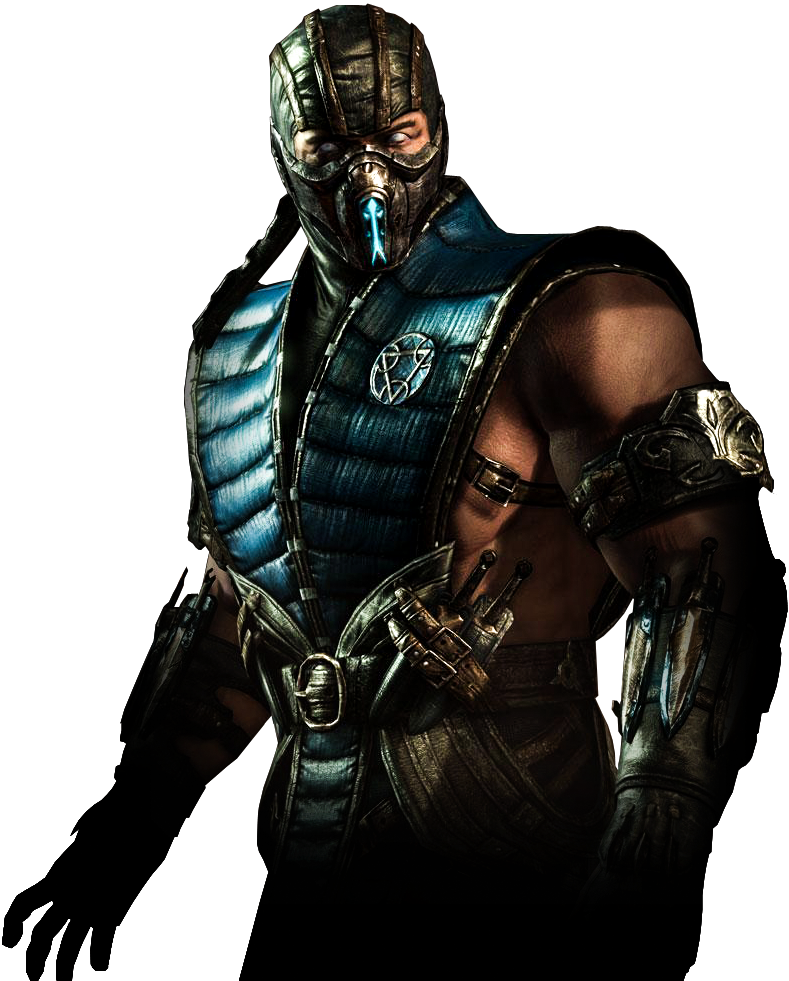
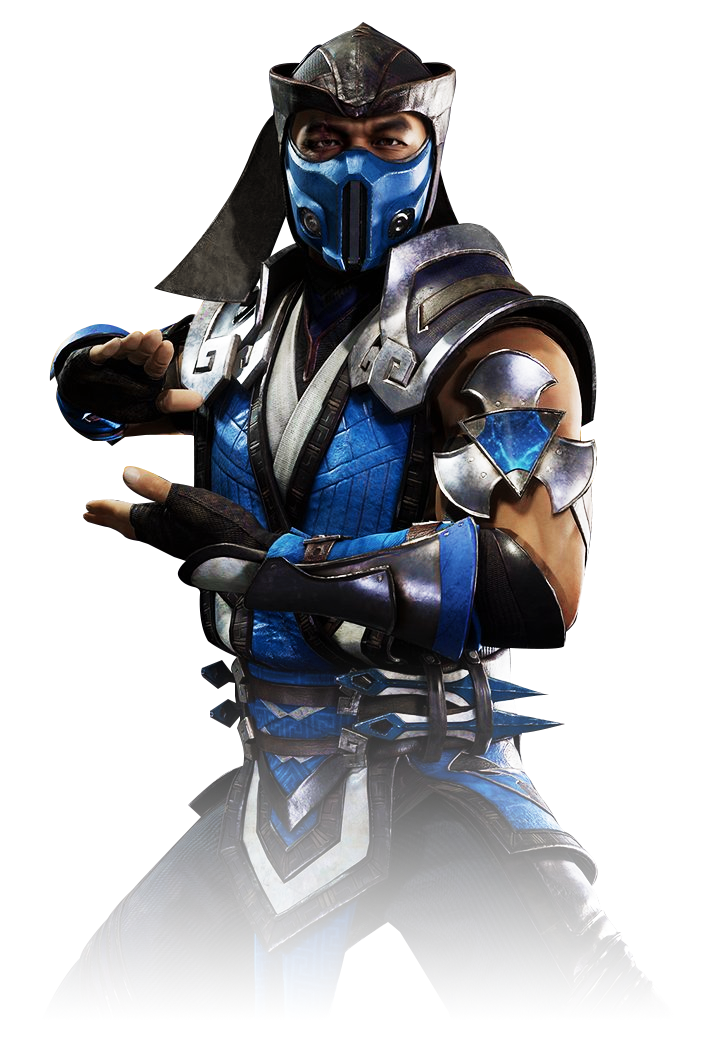
darken sub

diff --git a/components/sections/Landing.tsx b/components/sections/Landing.tsx
@@ -1,6 +1,9 @@
 import { motion } from 'framer-motion';
 import Image from 'next/image';
+import { useCallback, useState } from 'react';
+
 import { getRndInteger } from '../../util';
+
 import { MotionWrapper, Wrapper } from '../wrappers';
 
 const scaleVariants = {
@@ -15,6 +18,12 @@ const scaleVariants = {
 };
 
 const Landing = () => {
+  const [revealed, setRevealed] = useState(false);
+
+  const toggle = useCallback(() => {
+    setRevealed(!revealed);
+  }, [revealed]);
+
   return (
     <MotionWrapper>
       <Wrapper
@@ -34,7 +43,12 @@ const Landing = () => {
           >
             <div className="flex w-full flex-col items-start justify-start xl:items-end xl:justify-center">
               <div className="flex w-auto flex-row items-center justify-center rounded-2xl px-8 py-4 shadow-[0px_0px_20px_rgba(0,0,0,0.1)]">
-                <span className="text-4xl 2xl:text-7xl">👋</span>
+                <span
+                  onClick={toggle}
+                  className="cursor-pointer text-4xl 2xl:text-7xl"
+                >
+                  👋
+                </span>
                 <div style={{ marginLeft: 20 }}>
                   <p className="p-text mb-4 text-right">Hello, I am</p>
                   <h1
@@ -65,8 +79,10 @@ const Landing = () => {
             <Image
               layout="fill"
               objectFit="contain"
-              src="/images/sub4.png"
-              className="z-[1]"
+              src="/images/sub2.png"
+              className={`z-[1] transition-all duration-700 ease-linear brightness-[${
+                revealed ? '1' : '0.2'
+              }]`}
               alt="profile_picture"
             />
             <motion.img
